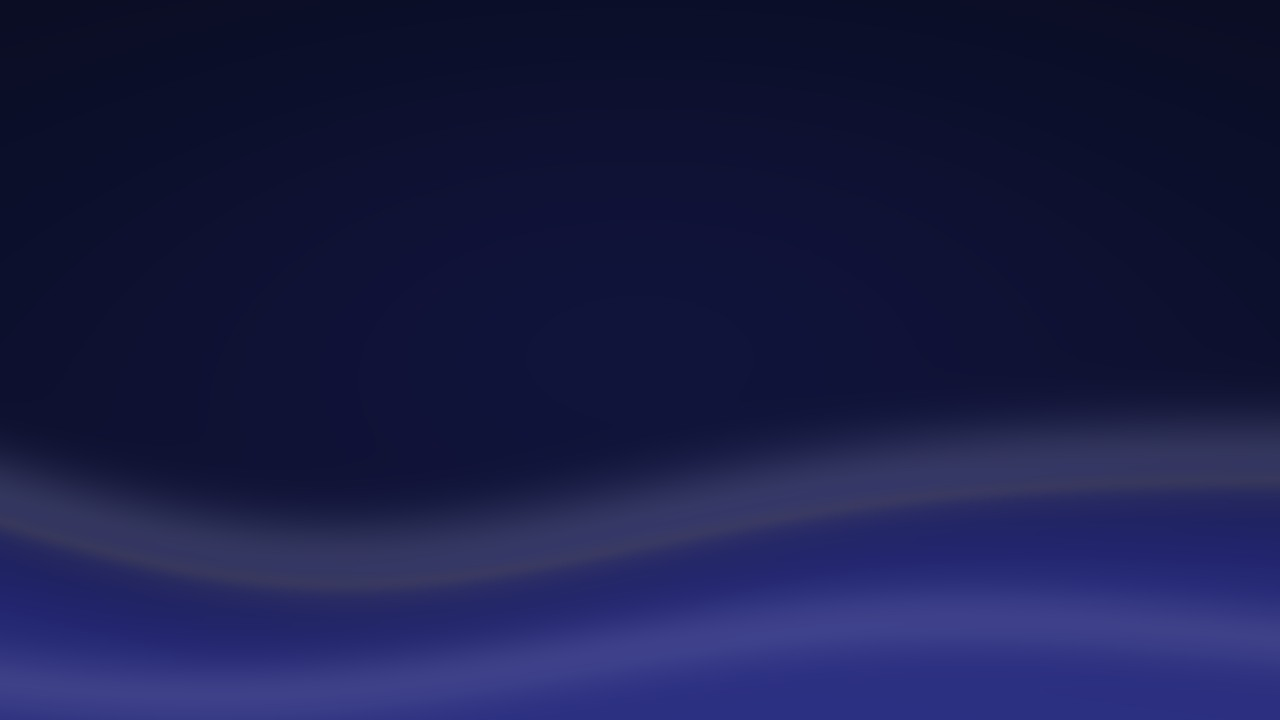
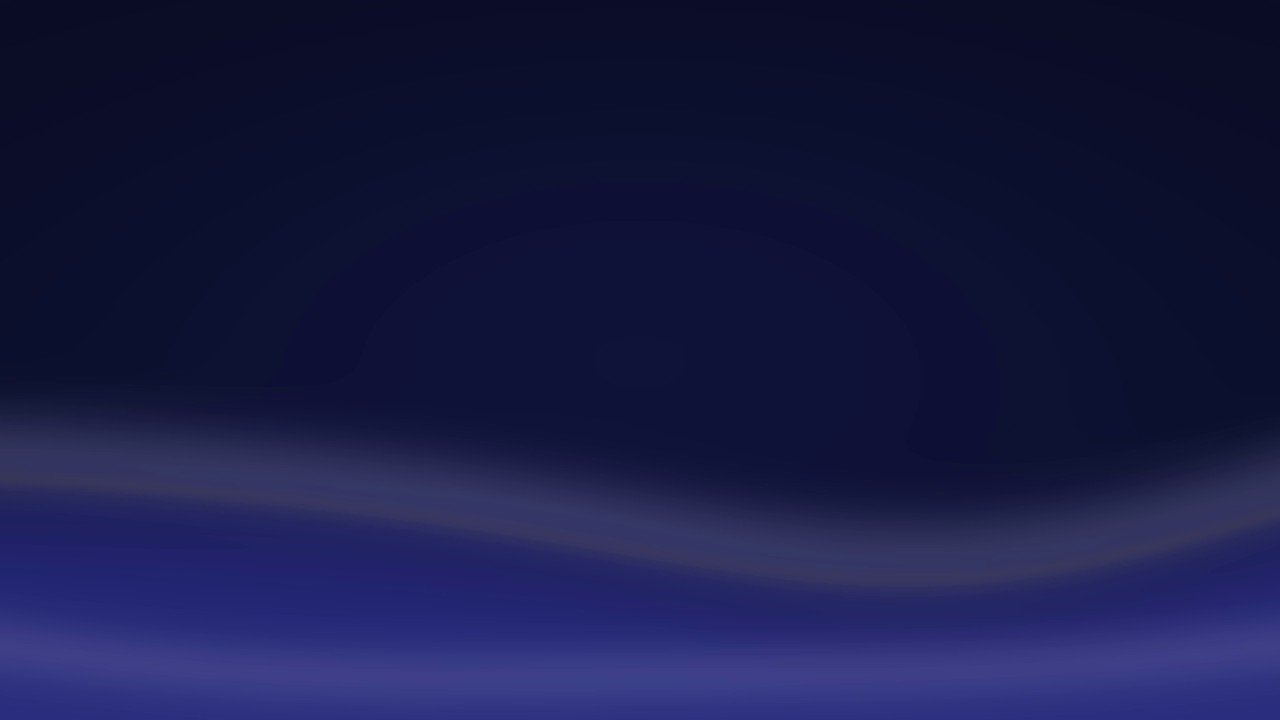
feat: enhance homepage and listing details with new data fetching and layout improvements

diff --git a/apps/web/src/app/[locale]/(website)/layout.tsx b/apps/web/src/app/[locale]/(website)/layout.tsx
@@ -12,8 +12,7 @@ import {
 import { SunsetBanner } from "@/components/sunset-banner"
 import { getRoleDestination, getUserRoleKeys } from "@/lib/auth/roles"
 import {
-  getFilteredPublicListings,
-  getPublicListingCoverPhotos,
+  getPublicHomepageData,
   getSelectedPublicCountryCode,
 } from "@/lib/listings/public-queries"
 import {
@@ -86,33 +85,19 @@ export default async function Layout({
   children: ReactNode
   params: Promise<{ locale: string }>
 }) {
-  const [{ locale }, session] = await Promise.all([
+  const [{ locale }, session, t, countryCode, homepageData] = await Promise.all([
     params,
     auth.api.getSession({ headers: await headers() }),
+    getScopedI18n("site"),
+    getSelectedPublicCountryCode(),
+    getPublicHomepageData(),
   ])
-  const t = await getScopedI18n("site")
-  const countryCode = await getSelectedPublicCountryCode()
   const roleKeys = session ? await getUserRoleKeys(session.user.id) : []
   const roleDestination = session ? getRoleDestination(roleKeys, locale) : null
-  const latestListings = await getFilteredPublicListings({
-    q: "",
-    propertyType: null,
-    listingType: null,
-    minPrice: null,
-    maxPrice: null,
-    minArea: null,
-    maxArea: null,
-    sort: "newest",
-    page: 1,
-    pageSize: 12,
-  })
-  const latestListingPhotos = await getPublicListingCoverPhotos(
-    latestListings.rows.map((listing) => listing.id)
-  )
-  const allListingPreviews = latestListings.rows.map((listing) => ({
+  const allListingPreviews = homepageData.results.rows.map((listing) => ({
     id: listing.id,
     title: listing.title,
-    photo: latestListingPhotos[listing.id] ?? null,
+    photo: homepageData.coverPhotos[listing.id] ?? null,
   }))
   const listingsWithPhotos = allListingPreviews.filter(
     (listing) => listing.photo

diff --git a/apps/web/src/app/[locale]/(website)/listings/[listingId]/page.tsx b/apps/web/src/app/[locale]/(website)/listings/[listingId]/page.tsx
@@ -301,7 +301,7 @@ export default async function ListingDetailsPage({
   }
 
   return (
-    <div className="mx-auto max-w-[1400px] space-y-8 pt-0 pb-12 sm:pt-0 sm:pb-16">
+    <div className="mx-auto max-w-[1400px] space-y-8 pt-32 pb-12">
       <script
         type="application/ld+json"
         // biome-ignore lint/security/noDangerouslySetInnerHtml: JSON-LD is escaped by createSafeJsonLd.
@@ -551,7 +551,7 @@ export default async function ListingDetailsPage({
       {similarListings.length > 0 && (
         <section
           aria-labelledby="similar-listings-heading"
-          className="space-y-5 border-t border-border pt-8"
+          className="space-y-5 pt-8"
         >
           <h2
             id="similar-listings-heading"

diff --git a/apps/web/src/lib/listings/public-queries.ts b/apps/web/src/lib/listings/public-queries.ts
@@ -104,6 +104,26 @@ export async function getPublicListingCoverPhotos(listingIds: string[]) {
   return Object.fromEntries(signedPhotos)
 }
 
+export const getPublicHomepageData = cache(async () => {
+  const results = await getFilteredPublicListings({
+    q: "",
+    propertyType: null,
+    listingType: null,
+    minPrice: null,
+    maxPrice: null,
+    minArea: null,
+    maxArea: null,
+    sort: "newest",
+    page: 1,
+    pageSize: 12,
+  })
+  const coverPhotos = await getPublicListingCoverPhotos(
+    results.rows.map((listing) => listing.id)
+  )
+
+  return { results, coverPhotos }
+})
+
 export async function getPublicListingMedia(listingId: string) {
   const rows = await getDatabase()
     .select({
